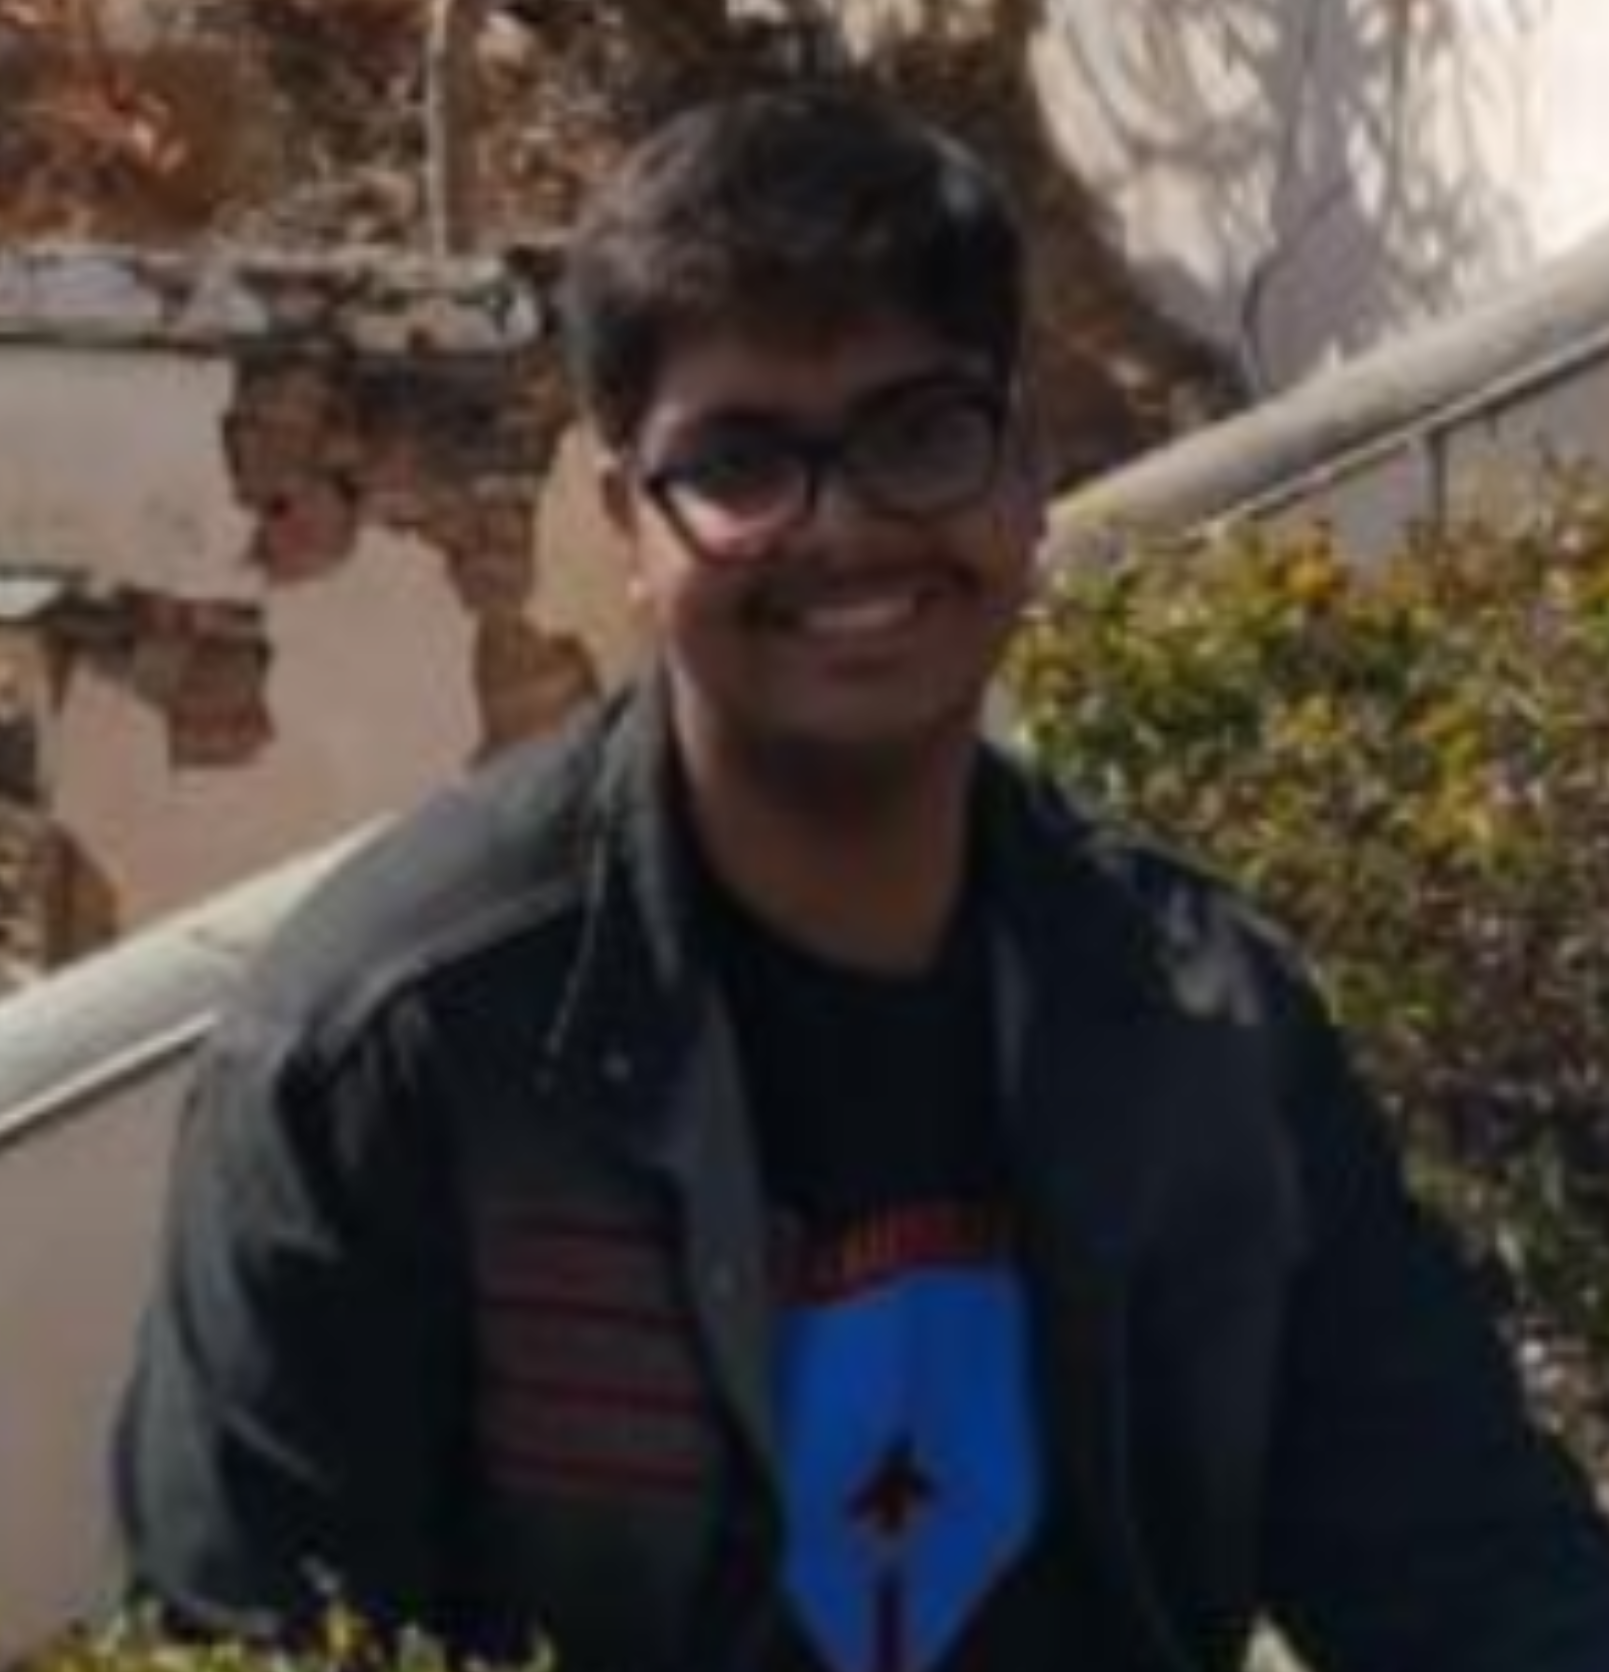
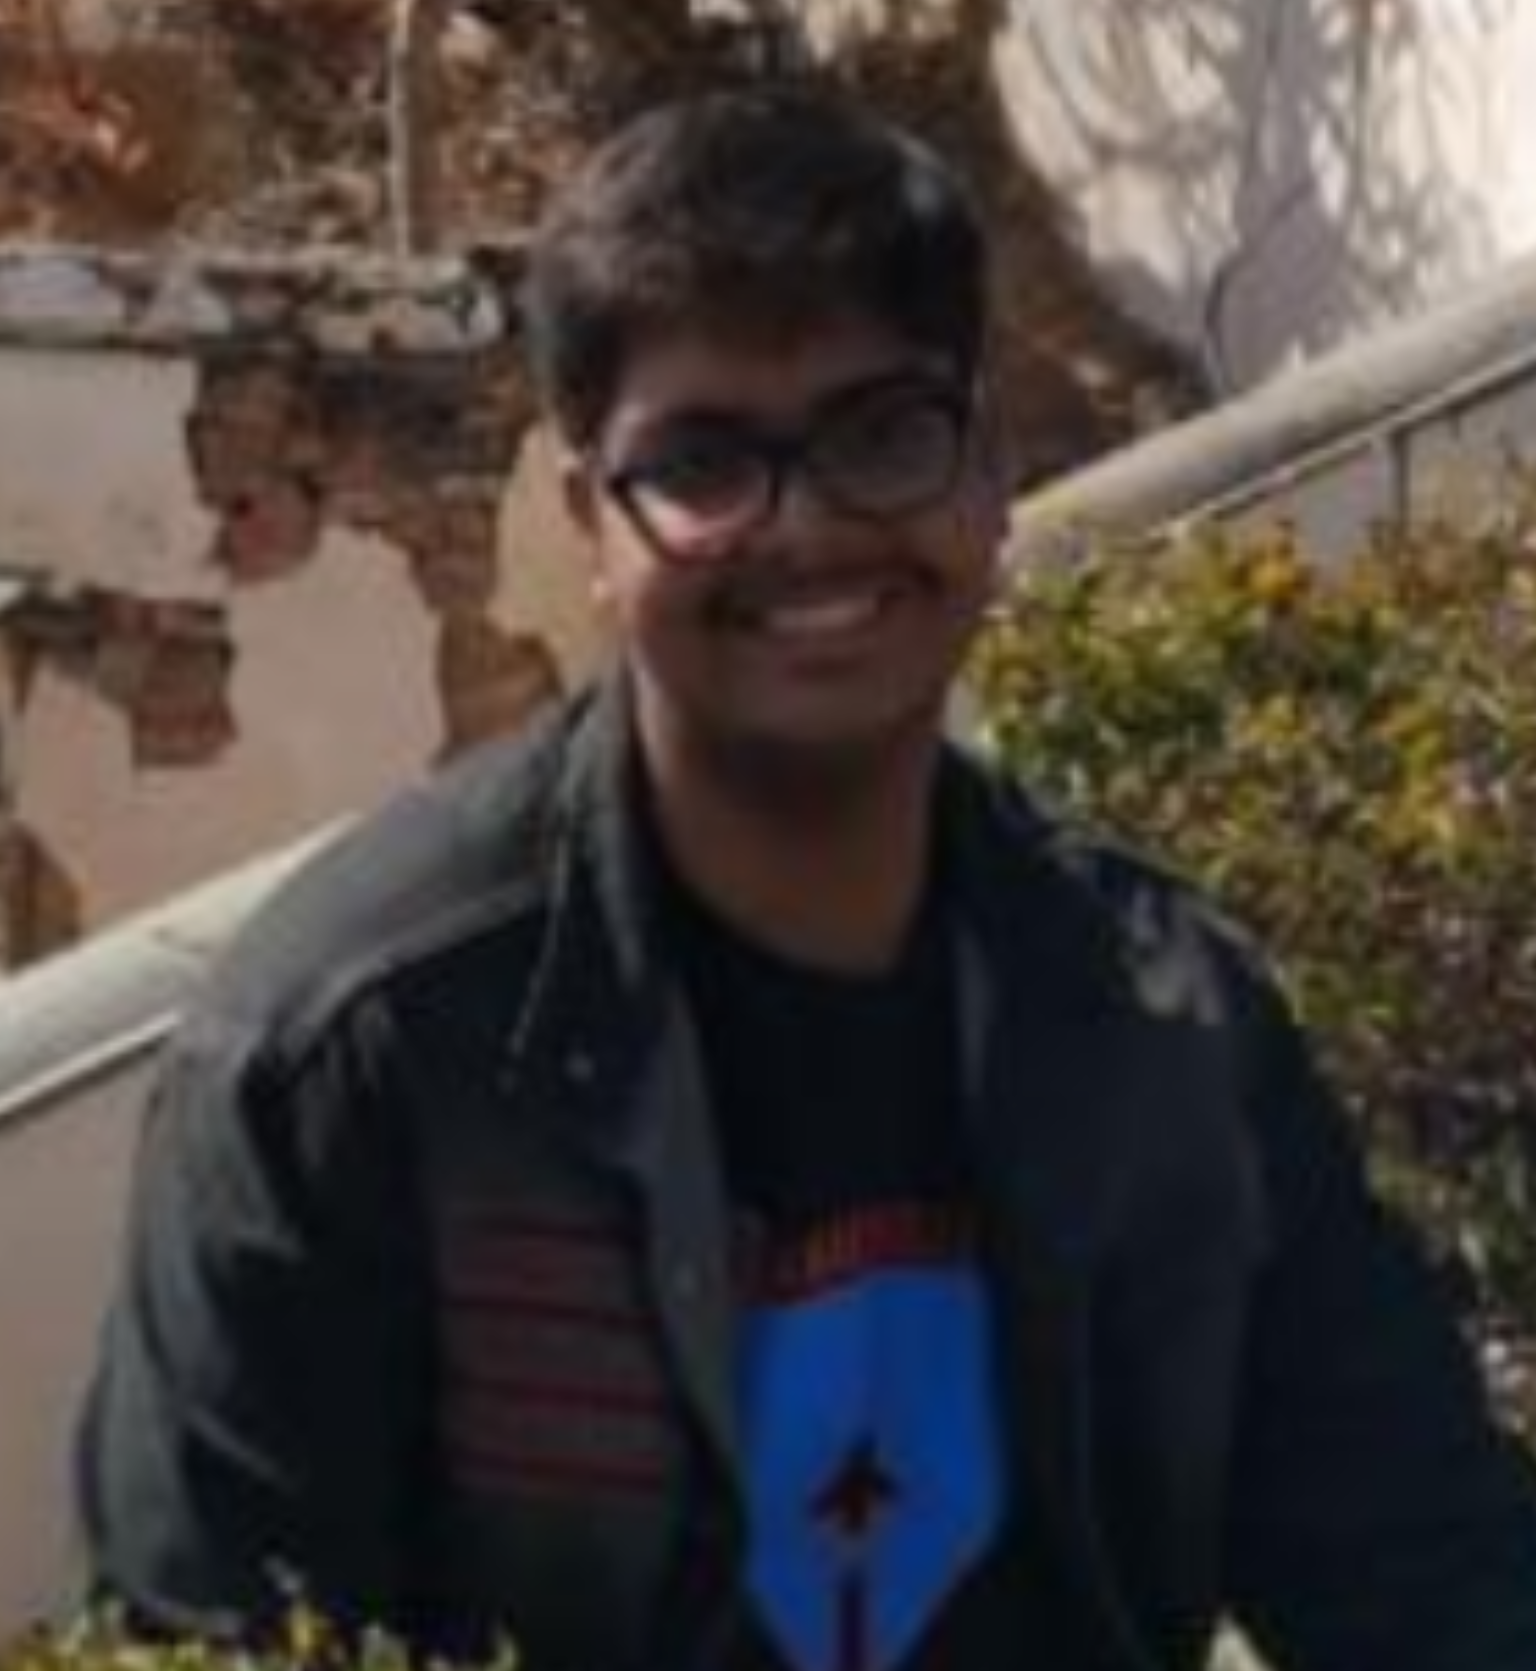
Photos and Signout page

diff --git a/DIRECTORY/templates/SignOut.html b/DIRECTORY/templates/SignOut.html
@@ -18,7 +18,8 @@
 </head>
 <body style=" background:url({{ url_for('static',filename='Hpme2.jpg')}});
 background-size:150%;" class="container-fluid">
-    <div class="d-flex" style="float: right;"><a id="SignOut" href="{{ url_for('home') }}" class="btn btn-outline-secondary" style="text-align: right;">Sign Out and/or Go To HomePage</a></div>
+    <div class="d-flex p-2" style="float: right;"><a id="SignOut" href="{{ url_for('home') }}" class="btn btn-outline-secondary" style="text-align: right;">Sign Out and/or Go To HomePage</a></div>
+    <br><p></p><br>
 
     <h1 class="container-fluid center" style="text-align:center;font-family: 'Odibee Sans', cursive; font-size: 5.5rem;
     padding: 5px; font: outline;">Your Resume</h1>

diff --git a/DIRECTORY/templates/homepage.html b/DIRECTORY/templates/homepage.html
@@ -218,7 +218,7 @@ background-size:150%;">
                 </div>
             </div>
             <div id="card" class="card border border-sucess">
-                <img src="Dummy_logo.jpg" class="card-img-top rounded-lg" alt="Photo of Member">
+                <img src="{{ url_for('static',filename='about_c.jpg') }}" class="card-img-top rounded-lg" alt="Photo of Member">
                 <div class="card-body">
                     <h5 class="card-title">Chaitanya Apte</h5>
                     <p id="text" class="card-text">My name is Chaitanya and I'm a freshman studying Mechanical Engineering.I hope you have a great experience with our app!</p>
